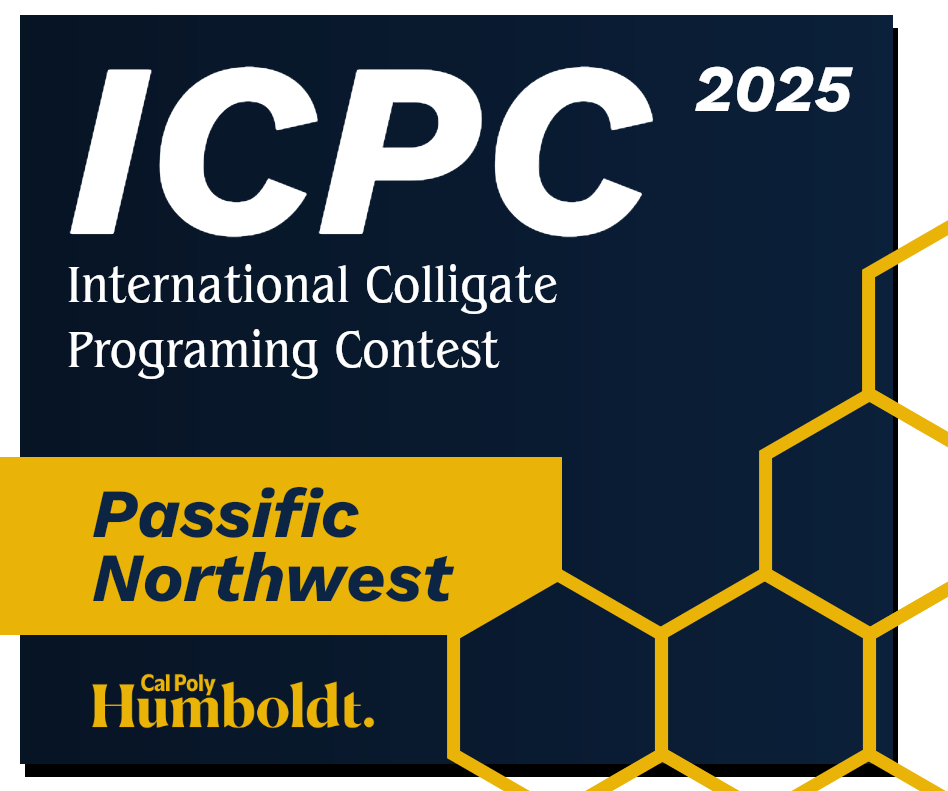
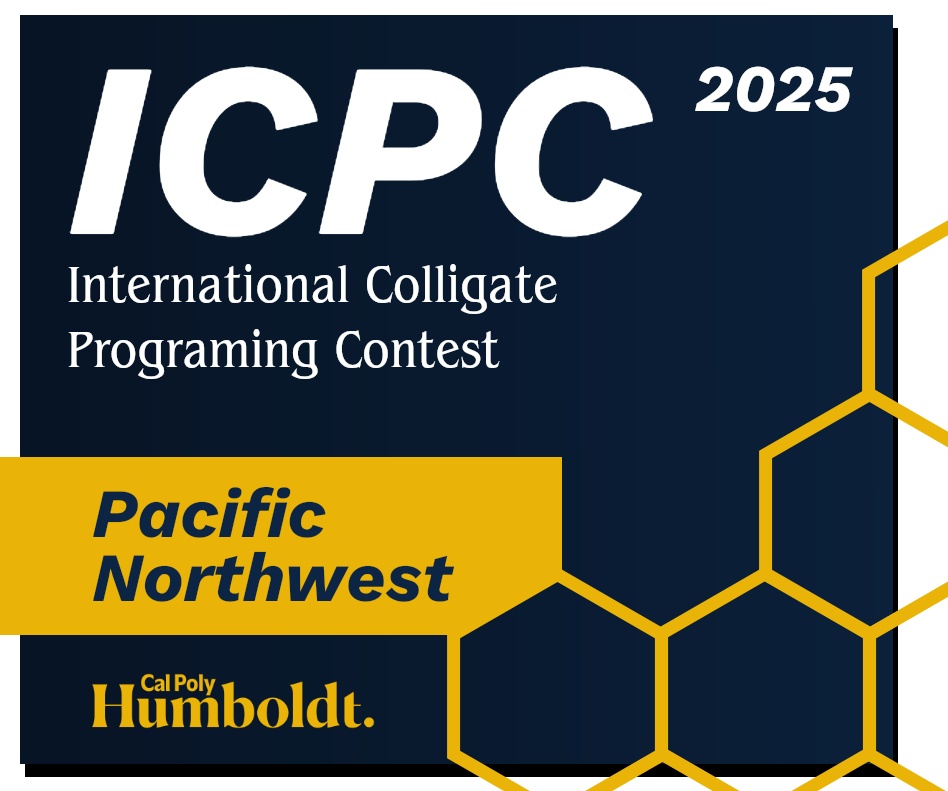
Grammer fix

Changed region(s): [[0.1835, 0.6068, 0.3977, 0.6979]]

diff --git a/next-env.d.ts b/next-env.d.ts
@@ -1,8 +1,8 @@
 /// <reference types="next" />
 /// <reference types="next/image-types/global" />
 /// <reference types="next/navigation-types/compat/navigation" />
-import "./.next/dev/types/routes.d.ts";
-import "./.next/dev/types/root-params.d.ts";
+import "./.next/types/routes.d.ts";
+import "./.next/types/root-params.d.ts";
 
 // NOTE: This file should not be edited
 // see https://nextjs.org/docs/app/api-reference/config/typescript for more information.
